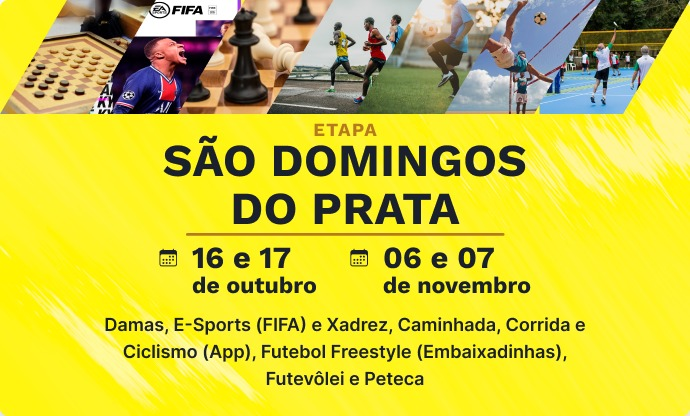
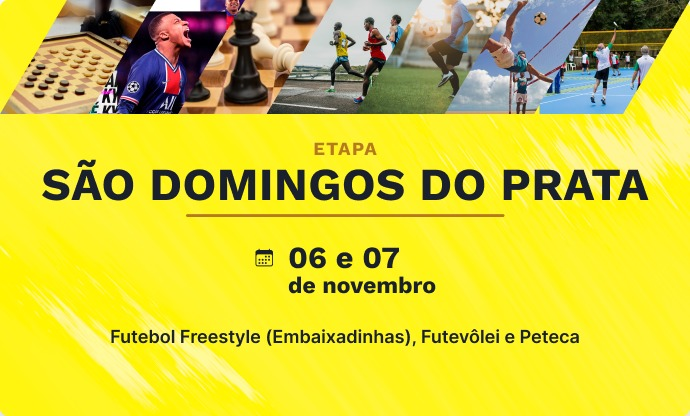
feat: atualizacoes de texto e add link para gallery

Changed region(s): [[0.0609, 0.2812, 0.9435, 0.7188], [0.1522, 0.75, 0.8522, 0.9375], [0.1217, 0.0, 0.3652, 0.2812]]

diff --git a/src/pages/api/cities.ts b/src/pages/api/cities.ts
@@ -24,6 +24,7 @@ export const cities: CityProps[] = [
         stage: '2ª Fase',
         date: '30 e 31 de outubro',
         modalities: 'Desafio NBA e Peteca.',
+        finished: true,
         dueDate: '28 de outubro',
         reportUrl: 'https://drive.google.com/file/d/12qst5PQgd-gNuVvpZup-Fxz5OJ78jxQt/view?usp=sharing'
       },
@@ -31,6 +32,7 @@ export const cities: CityProps[] = [
         stage: '3ª Fase',
         date: '14 de novembro',
         modalities: 'Damas e Xadrez.',
+        finished: true,
         dueDate: '12 de novembro',
         reportUrl: 'https://drive.google.com/file/d/1mijzCX9vhWwqgGcl__qIUwr09383EdAz/view?usp=sharing'
       }
@@ -48,6 +50,7 @@ export const cities: CityProps[] = [
       location: 'Av. Getúlio Vargas, nº 4798 – Carneirinhos',
       contact: '(31) 3851-4510'
     },
+    gallery: 'https://www.flickr.com/photos/194203616@N05/albums/72157720072360821',
     stages: [
       {
         stage: '1ª Fase',
@@ -60,6 +63,7 @@ export const cities: CityProps[] = [
         date: '23 e 24 de outubro',
         modalities: `Peteca, Sinuca e Vôlei Dupla;
         Abertura Oficial da Caminhada (App), Corrida (App) e Ciclismo (App).`,
+        finished: true,
         dueDate: '21 de outubro',
         reportUrl: 'https://drive.google.com/file/d/1ALXE2NHfZzOPddk8p1Eem7GCIl5P-KAw/view?usp=sharing'
       },
@@ -68,6 +72,7 @@ export const cities: CityProps[] = [
         date: '20 e 21 de novembro',
         modalities: `Damas, Desafio NBA, E-Sports (FIFA), Tênis de Mesa e Xadrez;
         Premiação da Caminhada (App), Corrida (App) e Ciclismo (App).`,
+        finished: true,
         dueDate: '18 de novembro',
         reportUrl: 'https://drive.google.com/file/d/1m1maY93oWHvpnhHQ_Wx3TnoaLnNoU8GA/view?usp=sharing'
       }
@@ -96,6 +101,7 @@ export const cities: CityProps[] = [
         stage: '2ª Fase',
         date: '27 e 28 de novembro',
         modalities: 'Damas, E-Sports (FIFA), Futebol Freestyle (Embaixadinhas), Peteca, Tênis de Mesa, Vôlei Dupla e Xadrez.',
+        finished: true,
         dueDate: '25 de novembro',
         reportUrl: 'https://drive.google.com/file/d/1QmMGV-RVYdtsHErhYImGxUuV3KV68wc4/view?usp=sharing'
       }
@@ -118,6 +124,7 @@ export const cities: CityProps[] = [
         stage: '1ª Fase',
         date: '10 a 31 de outubro',
         modalities: 'Pesca Esportiva.',
+        finished: true,
         dueDate: '29 de outubro',
         reportUrl: 'https://drive.google.com/file/d/10IMzWymd3FrntrN6LPrr0pt58AYfYLva/view?usp=sharing'
       },
@@ -126,6 +133,7 @@ export const cities: CityProps[] = [
         date: '06 e 07 de novembro',
         modalities: `Damas, E-Sports (FIFA), Natação e Xadrez;
         Abertura Oficial da Caminhada (App), Corrida (App) e Ciclismo (App).`,
+        finished: true,
         dueDate: '04 de novembro',
         reportUrl: 'https://drive.google.com/file/d/1T3W8Dph-NjSVtK6LQezHUqvgCwGN6NBX/view?usp=sharing'
       },
@@ -134,6 +142,7 @@ export const cities: CityProps[] = [
         date: '27 e 28 de novembro',
         modalities: `Sinuca, Peteca e Vôlei Dupla.
         Premiação da Caminhada (App), Corrida (App) e Ciclismo (App).`,
+        finished: true,
         dueDate: '25 de novembro',
         reportUrl: 'https://drive.google.com/file/d/13n9HOoSsT1B6N0min4ECuiNQIfsaeeSn/view?usp=sharing'
       }
@@ -157,16 +166,9 @@ export const cities: CityProps[] = [
         date: '30 e 31 de outubro',
         modalities: `Damas, E-Sports (FIFA) e Xadrez;
         Abertura Oficial da Caminhada (App), Corrida (App) e Ciclismo (App).`,
+        finished: true,
         dueDate: '28 de outubro',
         reportUrl: 'https://drive.google.com/file/d/1dnXuWNuvySjvYbU482u0ZWI2_WF6gE00/view?usp=sharing'
-      },
-      {
-        stage: '2ª Fase',
-        date: '13 a 15 de novembro',
-        modalities: `Futebol Freestyle (Embaixadinhas), Peteca e Vôlei Dupla.
-        Premiação da Caminhada (App), Corrida (App) e Ciclismo (App).`,
-        dueDate: '11 de novembro',
-        reportUrl: 'https://drive.google.com/file/d/1APqdagmTD-HW9yB7390ZavwmInNZtSEL/view?usp=sharing'
       }
     ]
   },
@@ -182,12 +184,14 @@ export const cities: CityProps[] = [
       location: 'Rua Hugo Soderi, nº 21 – Bloco B – Saramenha',
       contact: '(31) 3559-3216'
     },
+    gallery: 'https://www.flickr.com/photos/194203616@N05/albums/72157720049286928',
     stages: [
       {
         stage: '1ª Fase',
         date: '16 e 17 de outubro',
         modalities: `Desafio NBA, Futebol Freestyle (Embaixadinhas), Tênis de Mesa e Peteca;
         Abertura Oficial da Caminhada (App), Corrida (App) e Ciclismo (App).`,
+        finished: true,
         reportUrl: 'https://drive.google.com/file/d/1IPP6WQ8O5oiOT7cfGaqHtiqLPN9krRdy/view?usp=sharing'
       },
       {
@@ -195,6 +199,7 @@ export const cities: CityProps[] = [
         date: '30 e 31 de outubro',
         modalities: `Damas, E-Sports (FIFA) e Xadrez;
         Premiação da Caminhada (App), Corrida (App) e Ciclismo (App).`,
+        finished: true,
         dueDate: '29 de outubro',
         reportUrl: 'https://drive.google.com/file/d/1QIplcv3-pubJYMobYuD3Au71JJ2GwOtU/view?usp=sharing'
       }
@@ -212,12 +217,14 @@ export const cities: CityProps[] = [
       location: 'Rua Joaquim Gomes Lima, nº 700 – Cutucum',
       contact: '(31) 99797-1369 ou (31) 99827-9439'
     },
+    gallery: 'https://www.flickr.com/photos/194203616@N05/albums/72157720054847406',
     stages: [
       {
         stage: '1ª Fase',
         date: '16 e 17 de outubro',
         modalities: `Damas, E-Sports (FIFA) e Xadrez;
         Abertura Oficial da Caminhada (App), Corrida (App) e Ciclismo (App).`,
+        finished: true,
         reportUrl: 'https://drive.google.com/file/d/1vfWxyvTG-u-C_CWHbQTJUVzJdeoQXb5P/view?usp=sharing'
       },
       {
@@ -225,6 +232,7 @@ export const cities: CityProps[] = [
         date: '06 e 07 de novembro',
         modalities: `Futebol Freestyle (Embaixadinhas), Futevôlei e Peteca;
         Premiação da Caminhada (App), Corrida (App) e Ciclismo (App).`,
+        finished: true,
         dueDate: '29 de outubro',
         reportUrl: 'https://drive.google.com/file/d/1lMw8tKZDdxAfH8bVHjR3voBNQ-Lb0Cf7/view?usp=sharing'
       }
@@ -253,6 +261,7 @@ export const cities: CityProps[] = [
         stage: '2ª Fase',
         date: '20 e 21 de novembro',
         modalities: 'Damas, Futebol Freestyle, E-Sports (FIFA), Peteca, Sinuca, Vôlei Dupla e Xadrez.',
+        finished: true,
         dueDate: '29 de outubro',
         reportUrl: 'https://drive.google.com/file/d/1XkaOpxF0MqCXGbBgzRYfE9NmzCToOOXd/view?usp=sharing'
       }

diff --git a/src/components/organisms/accordion/index.tsx b/src/components/organisms/accordion/index.tsx
@@ -90,6 +90,13 @@ const AccordionOrganisms = ({
                     </Link>
                   ))}
                 </VStack>
+                {item.gallery &&
+                  <Text fontSize="xl" color='primary' align="center" fontWeight="bold">
+                    <Link href={item.gallery} target='_blank'>
+                      Clique para ver as fotos
+                    </Link>
+                  </Text>
+                }
               </React.Fragment>
             }
 

diff --git a/src/components/atoms/NextFotterBox/index.tsx b/src/components/atoms/NextFotterBox/index.tsx
@@ -5,13 +5,11 @@ import { Box, Text, Image } from '@chakra-ui/react'
 type Props = {
   imgUrl: string;
   cityName: string
-  ufName: string
 }
 
 const NextFooterBox = ({
   imgUrl,
-  cityName,
-  ufName
+  cityName
 }: Props) =>
 
   (
@@ -38,7 +36,7 @@ const NextFooterBox = ({
         py={1}
         px={[4, 0]}
       >
-        {cityName} - {ufName}
+        {cityName}
       </Text>
 
     </Box>

diff --git a/src/pages/api/heroItems.ts b/src/pages/api/heroItems.ts
@@ -5,6 +5,7 @@ export const heroItems = {
   heroImages: [
     '/images/heroItems/heroOP.jpeg',
     '/images/heroItems/heroPrata.jpeg',
-    '/images/heroItems/heroJM.jpeg'
+    '/images/heroItems/heroNovaEra.jpeg',
+    '/images/heroItems/heroBaraoCocais.jpeg'
   ]
 }

diff --git a/src/components/molecules/realizacao/index.tsx b/src/components/molecules/realizacao/index.tsx
@@ -22,7 +22,6 @@ const Realizacao = () => {
             key={index}
             imgUrl={city.symbol}
             cityName={city.title}
-            ufName="MG"
           />
         ))}
       </Grid>

diff --git a/src/types/types.ts b/src/types/types.ts
@@ -44,6 +44,7 @@ export interface CityProps {
   categories: string
   rulesUrl?: string
   info?: EnrollmentInfoProps
+  gallery?: string
   stages?: StagesProps[]
 }
 
